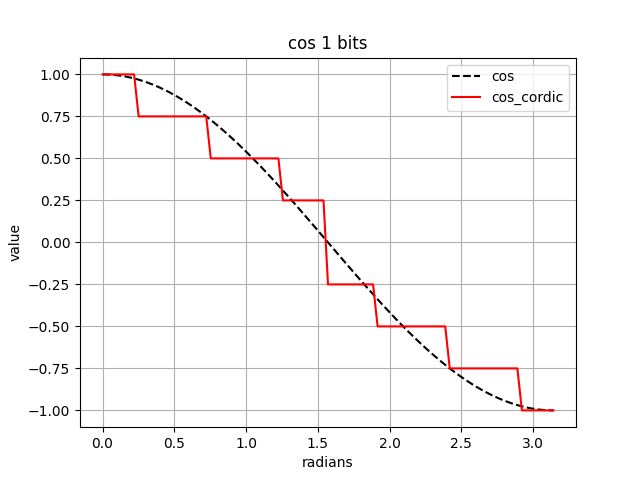
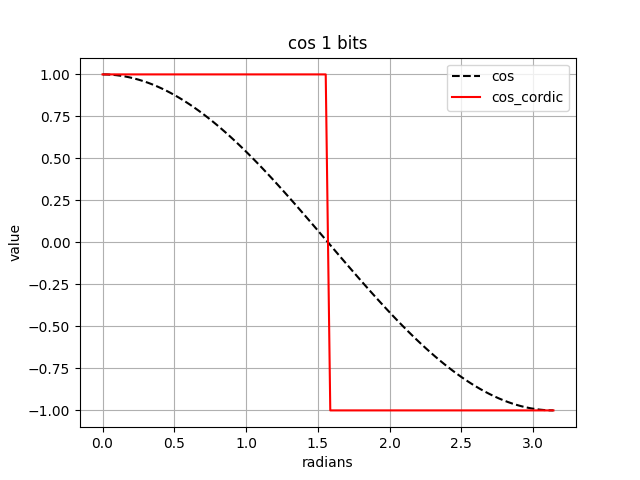
Курсовая по АиСД. Петров Дмитрий, 3352. Исправлены недочеты

diff --git a/main.py b/main.py
@@ -10,39 +10,39 @@ from math import asin as math_asin
 from math import acos as math_acos
 
 corners = [
-        0.7853981633974483,
-        0.4636476090008061,
-        0.2449786631268641,
-        0.1243549945467614,
-        0.0624188099959574,
-        0.0312398334302683,
-        0.0156237286204768,
-        0.0078123410601011,
-        0.0039062301319670,
-        0.0019531225164788,
-        0.0009765621895593,
-        0.0004882812111949,
-        0.0002441406201494,
-        0.0001220703118937,
-        6.10351561742e-05,
-        3.05175781155e-05,
-        1.52587890613e-05,
-        7.6293945311e-06,
-        3.8146972656e-06,
-        1.9073486328e-06,
-        9.536743164e-07,
-        4.768371582e-07,
-        2.384185791e-07,
-        1.192092896e-07,
-        5.96046448e-08,
-        2.98023224e-08,
-        1.49011612e-08,
-        7.4505806e-09,
-        3.7252903e-09,
-        1.8626451e-09,
-        9.313226e-10,
-        4.656613e-10,
-    ]
+    0.7853981633974483,
+    0.4636476090008061,
+    0.2449786631268641,
+    0.1243549945467614,
+    0.0624188099959574,
+    0.0312398334302683,
+    0.0156237286204768,
+    0.0078123410601011,
+    0.0039062301319670,
+    0.0019531225164788,
+    0.0009765621895593,
+    0.0004882812111949,
+    0.0002441406201494,
+    0.0001220703118937,
+    6.10351561742e-05,
+    3.05175781155e-05,
+    1.52587890613e-05,
+    7.6293945311e-06,
+    3.8146972656e-06,
+    1.9073486328e-06,
+    9.536743164e-07,
+    4.768371582e-07,
+    2.384185791e-07,
+    1.192092896e-07,
+    5.96046448e-08,
+    2.98023224e-08,
+    1.49011612e-08,
+    7.4505806e-09,
+    3.7252903e-09,
+    1.8626451e-09,
+    9.313226e-10,
+    4.656613e-10,
+]
 
 frac_bits = 12
 _format = {'signed': True, 'm': 8, 'n': frac_bits}
@@ -55,7 +55,7 @@ inf = float('inf')
 def angles(qf: dict) -> list:
     res = []
 
-    for i in range(len(corners)):
+    for i in range(min(qf['n'], len(corners))):
         r = FixedPoint(corners[i], **qf)
         if r == 0:
             break
@@ -228,3 +228,40 @@ def graphics(
     pyplot.clf()
     _format['n'] = format_n
 
+
+tests = (dict(x_0=-pi / 2,
+              x_n=pi / 2,
+              cnt=100,
+              cordic_func=sin,
+              math_func=math_sin,
+              title_form='sin {} bits',
+              file_form='Graphics\\sin\\sin_{}.png',
+              x_label='radians',
+              func_title='sin'),
+         dict(x_0=0,
+              x_n=pi,
+              cnt=100,
+              cordic_func=cos,
+              math_func=math_cos,
+              title_form='cos {} bits',
+              file_form='Graphics\\cos\\cos_{}.png',
+              x_label='radians',
+              func_title='cos'),
+         dict(x_0=-1.0,
+              x_n=1.0,
+              cnt=100,
+              cordic_func=asin,
+              math_func=math_asin,
+              title_form='arcsine {} bits',
+              file_form='Graphics\\arcsine\\arcsine_{}.png',
+              x_label='number',
+              func_title='arcsine')
+         )
+
+
+def main():
+    for info in tests:
+        graphics(**info)
+
+
+main()

diff --git a/test.py b/test.py
@@ -1,0 +1,40 @@
+from fixedpoint import FixedPoint
+
+n = 2
+corners = [
+        0.7853981633974483,
+        0.4636476090008061,
+        0.2449786631268641,
+        0.1243549945467614,
+        0.0624188099959574,
+        0.0312398334302683,
+        0.0156237286204768,
+        0.0078123410601011,
+        0.0039062301319670,
+        0.0019531225164788,
+        0.0009765621895593,
+        0.0004882812111949,
+        0.0002441406201494,
+        0.0001220703118937,
+        6.10351561742e-05,
+        3.05175781155e-05,
+        1.52587890613e-05,
+        7.6293945311e-06,
+        3.8146972656e-06,
+        1.9073486328e-06,
+        9.536743164e-07,
+        4.768371582e-07,
+        2.384185791e-07,
+        1.192092896e-07,
+        5.96046448e-08,
+        2.98023224e-08,
+        1.49011612e-08,
+        7.4505806e-09,
+        3.7252903e-09,
+        1.8626451e-09,
+        9.313226e-10,
+        4.656613e-10,
+    ]
+
+for i in range(len(corners)):
+    print(i, float(FixedPoint(corners[i], m=1, n=n)))

diff --git a/cordic.py b/cordic.py
@@ -47,7 +47,7 @@ inf = float('inf')
 def angles(qf: dict) -> list:
     res = []
 
-    for i in range(len(corners)):
+    for i in range(min(qf['n'], len(corners))):
         r = FixedPoint(corners[i], **qf)
         if r == 0:
             break
